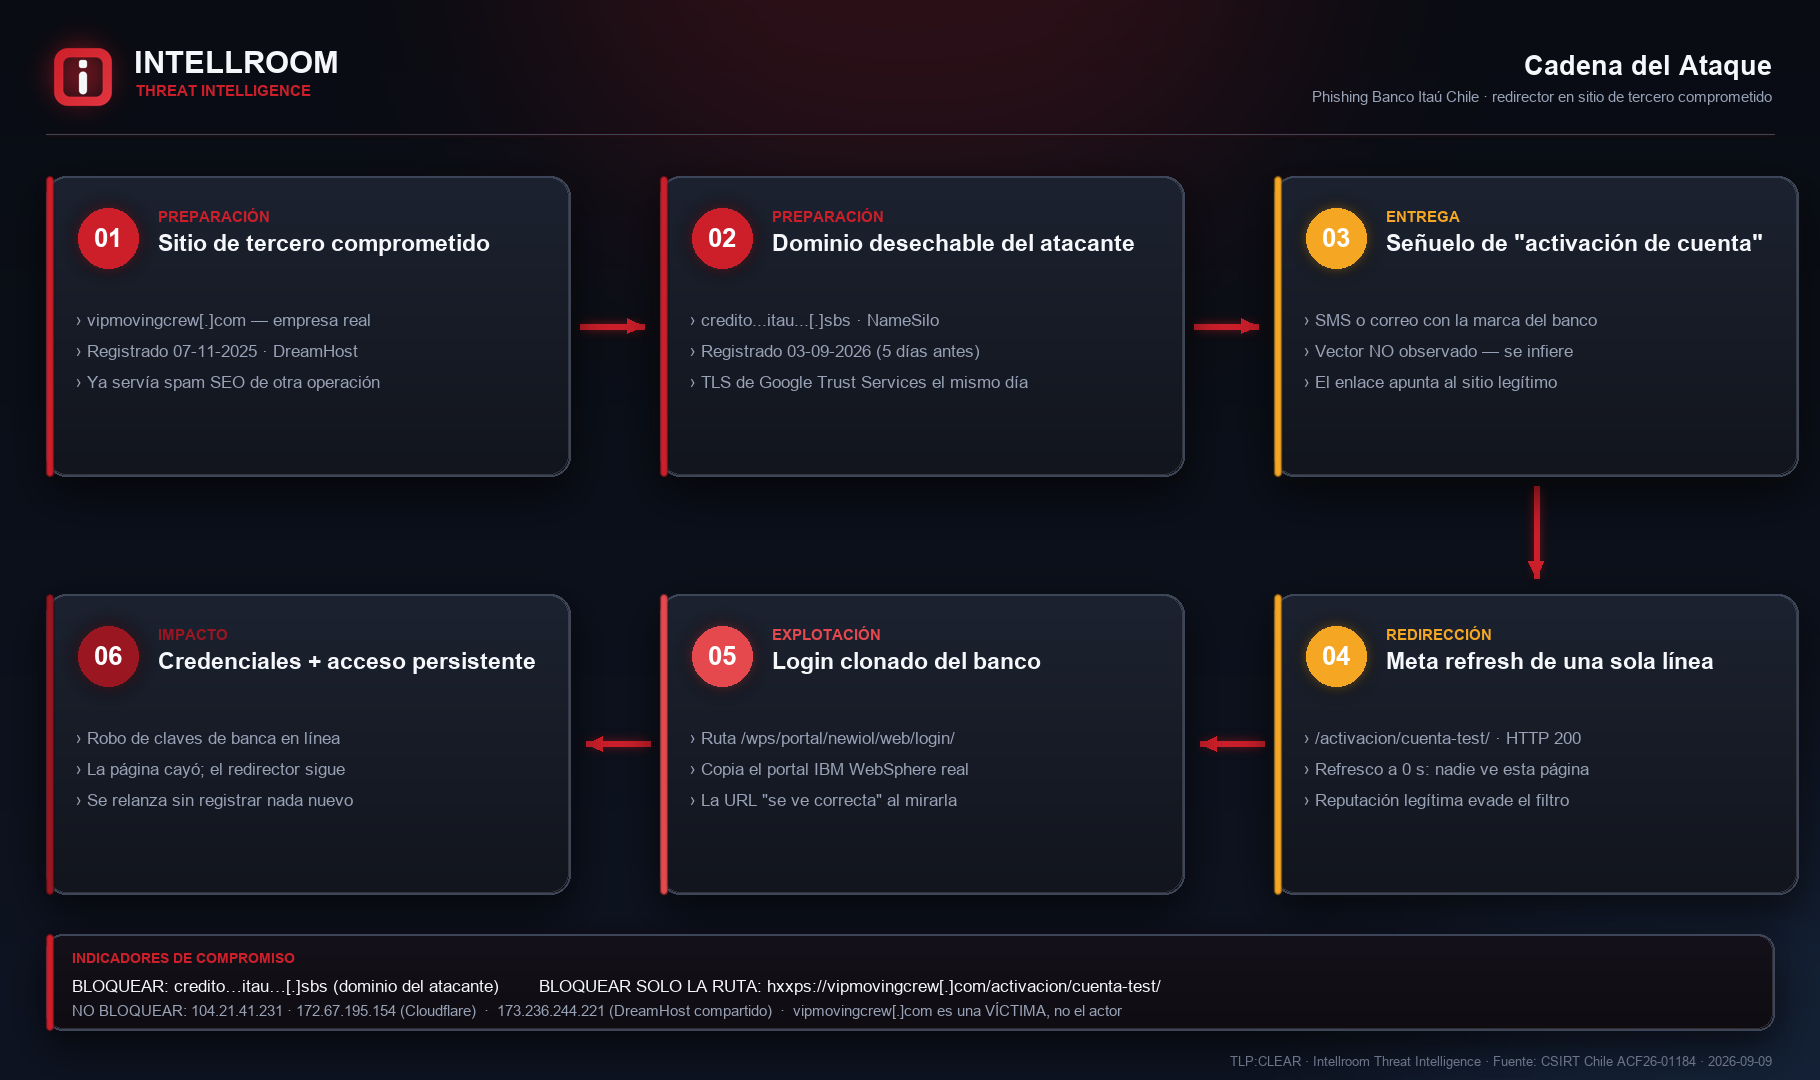
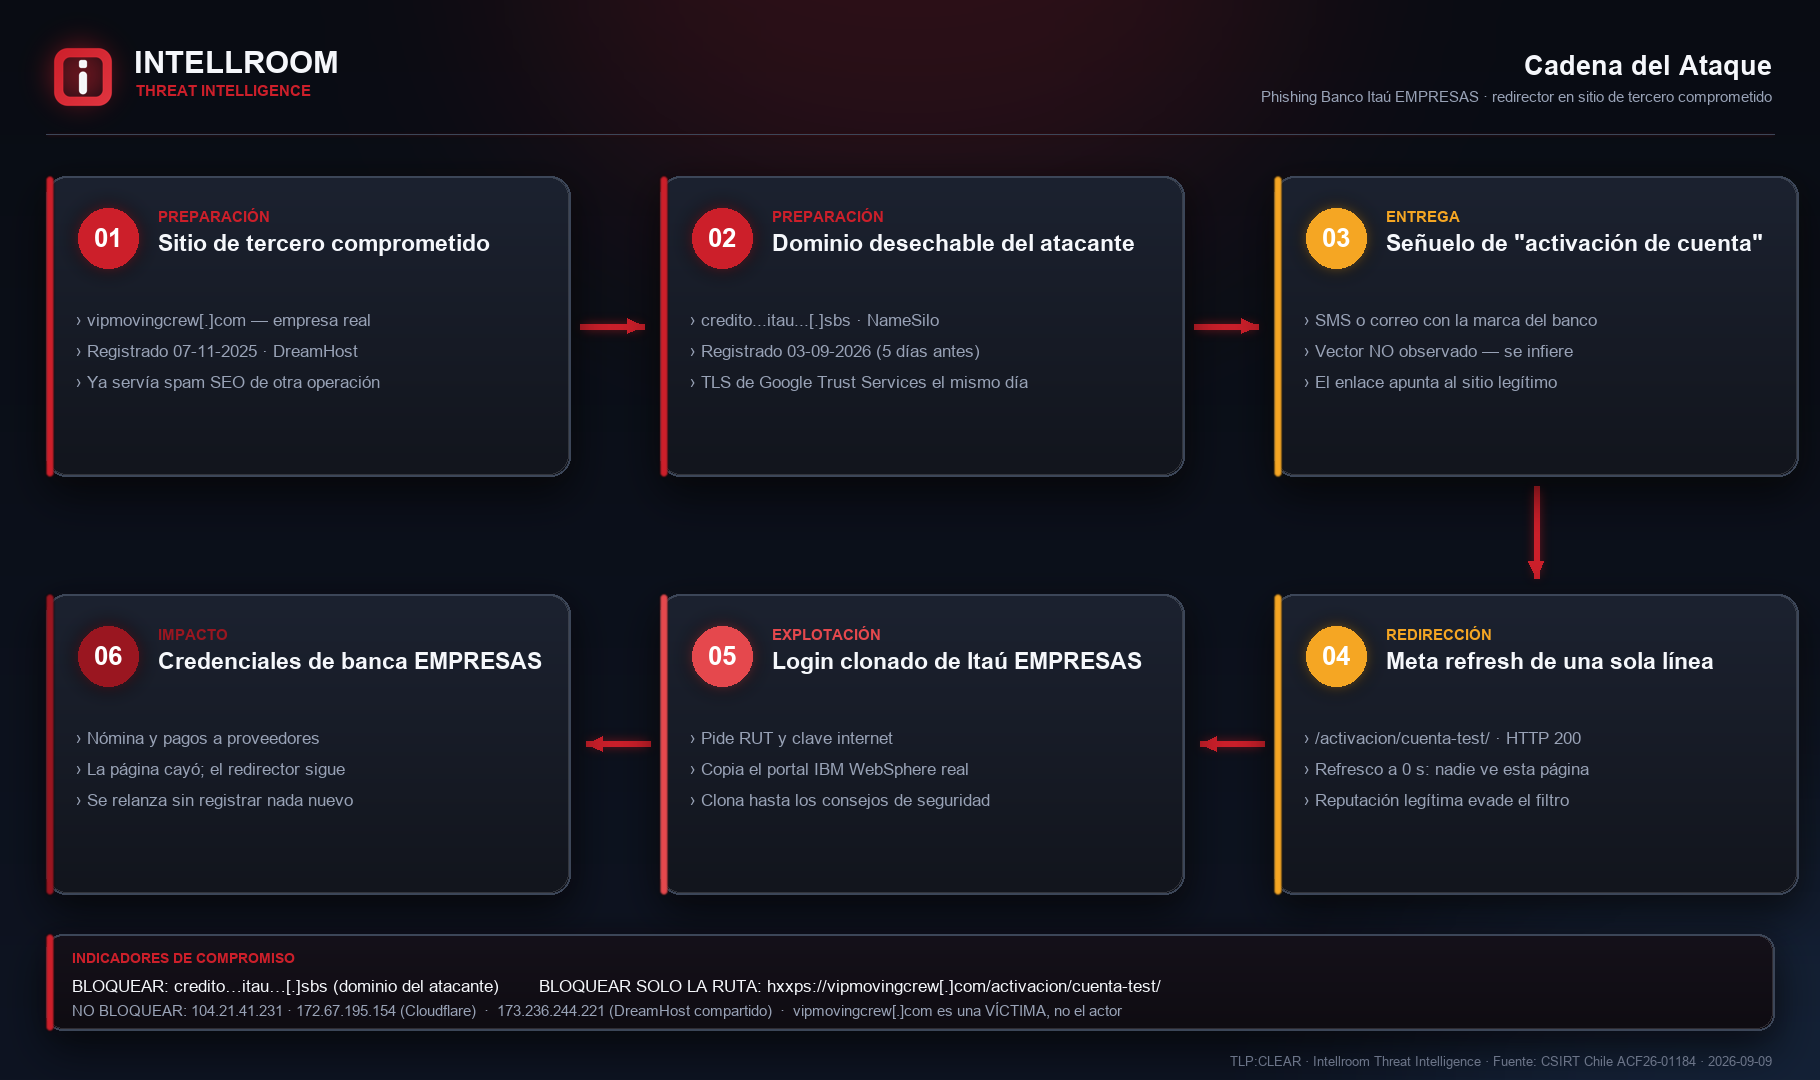
Itau: se agrega la captura oficial del CSIRT y corrige el perfil de la victima
La evidencia publicada en la alerta ACF26-01184 confirma tres cosas que en la
version anterior de la ficha eran inferencia, y una de ellas corrige el analisis:

1. NO es banca personal, es BANCA EMPRESAS. Titulo de pestana "Acceso a Itau
   Empresas", encabezado "portal Itau Empresas" e interruptor "Quiero acceder
   con RUT empresa". Cambia el perfil de la victima y sube el impacto: una
   cuenta de banca empresa mueve nomina y pagos a proveedores. La ficha, el
   README, iocs.txt y los dos diagramas se corrigieron -- decian "banca en
   linea" y "clientes".

2. Los campos capturados son "RUT personal" y "clave internet". Se leen en el
   formulario; ya no se deducen del diseno.

3. El kit clono tambien el panel "Recomendaciones de seguridad" del banco real,
   que en la propia pagina falsa aconseja "Nuestros emails no contienen links
   ni botones" y "Nunca entregues tus claves de seguridad a terceros".

iocs.txt suma una nota de PERFIL DE LA VICTIMA: si aparece una visita en los
registros, el usuario afectado probablemente opera cuentas con capacidad de pago
masivo -> se trata con esa urgencia, no como una credencial personal.

Sobre la imagen: descargada del dominio oficial (media.anci.gob.cl), 1134x837,
sin metadatos EXIF, navegacion privada y formulario vacio -- sin datos
personales de ninguna persona. La URL del phishing aparece en la barra de
direcciones como PIXELES, no como texto: no es clicable ni autolinkificable, y
[…]

diff --git a/Campañas/Phishing/BancoItau_Redirector_Comprometido/README.md b/Campañas/Phishing/BancoItau_Redirector_Comprometido/README.md
@@ -3,9 +3,13 @@
 **Fecha:** 2026-09-09 · **TLP:CLEAR** · Intellroom CTI
 **Fuente primaria:** CSIRT Nacional de Chile — alerta [`ACF26-01184`](https://csirt.gob.cl/alertas/acf26-01184/) (2026-09-08)
 
-Campaña de robo de credenciales que suplanta a **Banco Itaú Chile**. La víctima no llega
-directo a la página falsa: primero pasa por el sitio web de una empresa sin relación con el
-fraude, que los atacantes tienen comprometido y usan como trampolín.
+Campaña de robo de credenciales que suplanta el portal de **banca EMPRESAS de Banco Itaú
+Chile**. La víctima no llega directo a la página falsa: primero pasa por el sitio web de una
+empresa sin relación con el fraude, que los atacantes tienen comprometido y usan como trampolín.
+
+**El objetivo son cuentas de empresa, no de personas naturales** — confirmado en la captura
+oficial del CSIRT. Eso sube el impacto: una cuenta de banca empresa mueve nómina, pagos a
+proveedores y montos que una cuenta personal no.
 
 Lo que distingue a esta campaña no es la página falsa — es de kit y ya cayó — sino la
 **estructura** de la cadena:
@@ -54,6 +58,27 @@ criterio reconoce una ruta "correcta" y baja la guardia.
 ## Modelo del Diamante
 
 ![Modelo del Diamante](02_modelo_diamante.png)
+
+## La página falsa — captura oficial del CSIRT
+
+![Página falsa de Itaú Empresas](04_evidencia_csirt_pagina_falsa.png)
+
+*Publicada por el CSIRT en la alerta. Navegación privada, formulario vacío, sin datos
+personales de ninguna persona. Intellroom no la reprodujo: al momento del análisis la página
+ya estaba caída.*
+
+Tres cosas que la captura confirma y que antes eran inferencia:
+
+1. **Es banca EMPRESAS.** Título de pestaña *"Acceso a Itaú Empresas"*, encabezado *"Te damos
+   la bienvenida al portal Itaú Empresas"* e interruptor *"Quiero acceder con RUT empresa"*.
+2. **Los campos que captura:** *"Ingresa tu RUT personal"* y *"Ingresa tu clave internet"*.
+   Se leen en el formulario, no se dedujeron.
+3. **El kit clonó también el panel "Recomendaciones de seguridad" del banco real** — que en la
+   propia página falsa aconseja *"Nuestros emails no contienen links ni botones"* y *"Nunca
+   entregues tus claves de seguridad a terceros"*. La página que roba la clave muestra el
+   consejo que la desmiente. Es copia literal del sitio legítimo, no descuido del atacante.
+
+Y en la barra de direcciones se ve el dominio completo: es el mismo `.sbs` del indicador.
 
 ---
 
@@ -111,7 +136,8 @@ sí escalan.
 | [`iocs.txt`](iocs.txt) | Indicadores para bloqueo rápido, **con la acción en cada línea**: `[BLOQUEAR]` · `[VIGILAR]` · `[NO ES IOC]` · `[DETECTAR]` |
 | [`BancoItau_Redirector_Comprometido_09092026.txt`](BancoItau_Redirector_Comprometido_09092026.txt) | Ficha completa: resumen, cadena, línea de tiempo, **"lo que NO es un IOC"**, MITRE ATT&CK, recomendaciones, valoración y limitaciones |
 | [`03_evidencia_tecnica.txt`](03_evidencia_tecnica.txt) | Mediciones crudas y reproducibles: DNS, WHOIS, certificado TLS, códigos HTTP, contenido literal del redirector |
-| `01_flujo_ataque.png` · `02_modelo_diamante.png` | Diagramas |
+| `01_flujo_ataque.png` · `02_modelo_diamante.png` | Diagramas de Intellroom |
+| `04_evidencia_csirt_pagina_falsa.png` | Captura de la página falsa **publicada por el CSIRT** en la alerta ([fuente](https://csirt.gob.cl/alertas/acf26-01184/)) |
 
 **Todos los indicadores van defanged.** Al aplicarlos: reemplazar `[.]` → `.` y `hxxp` → `http`.
 
